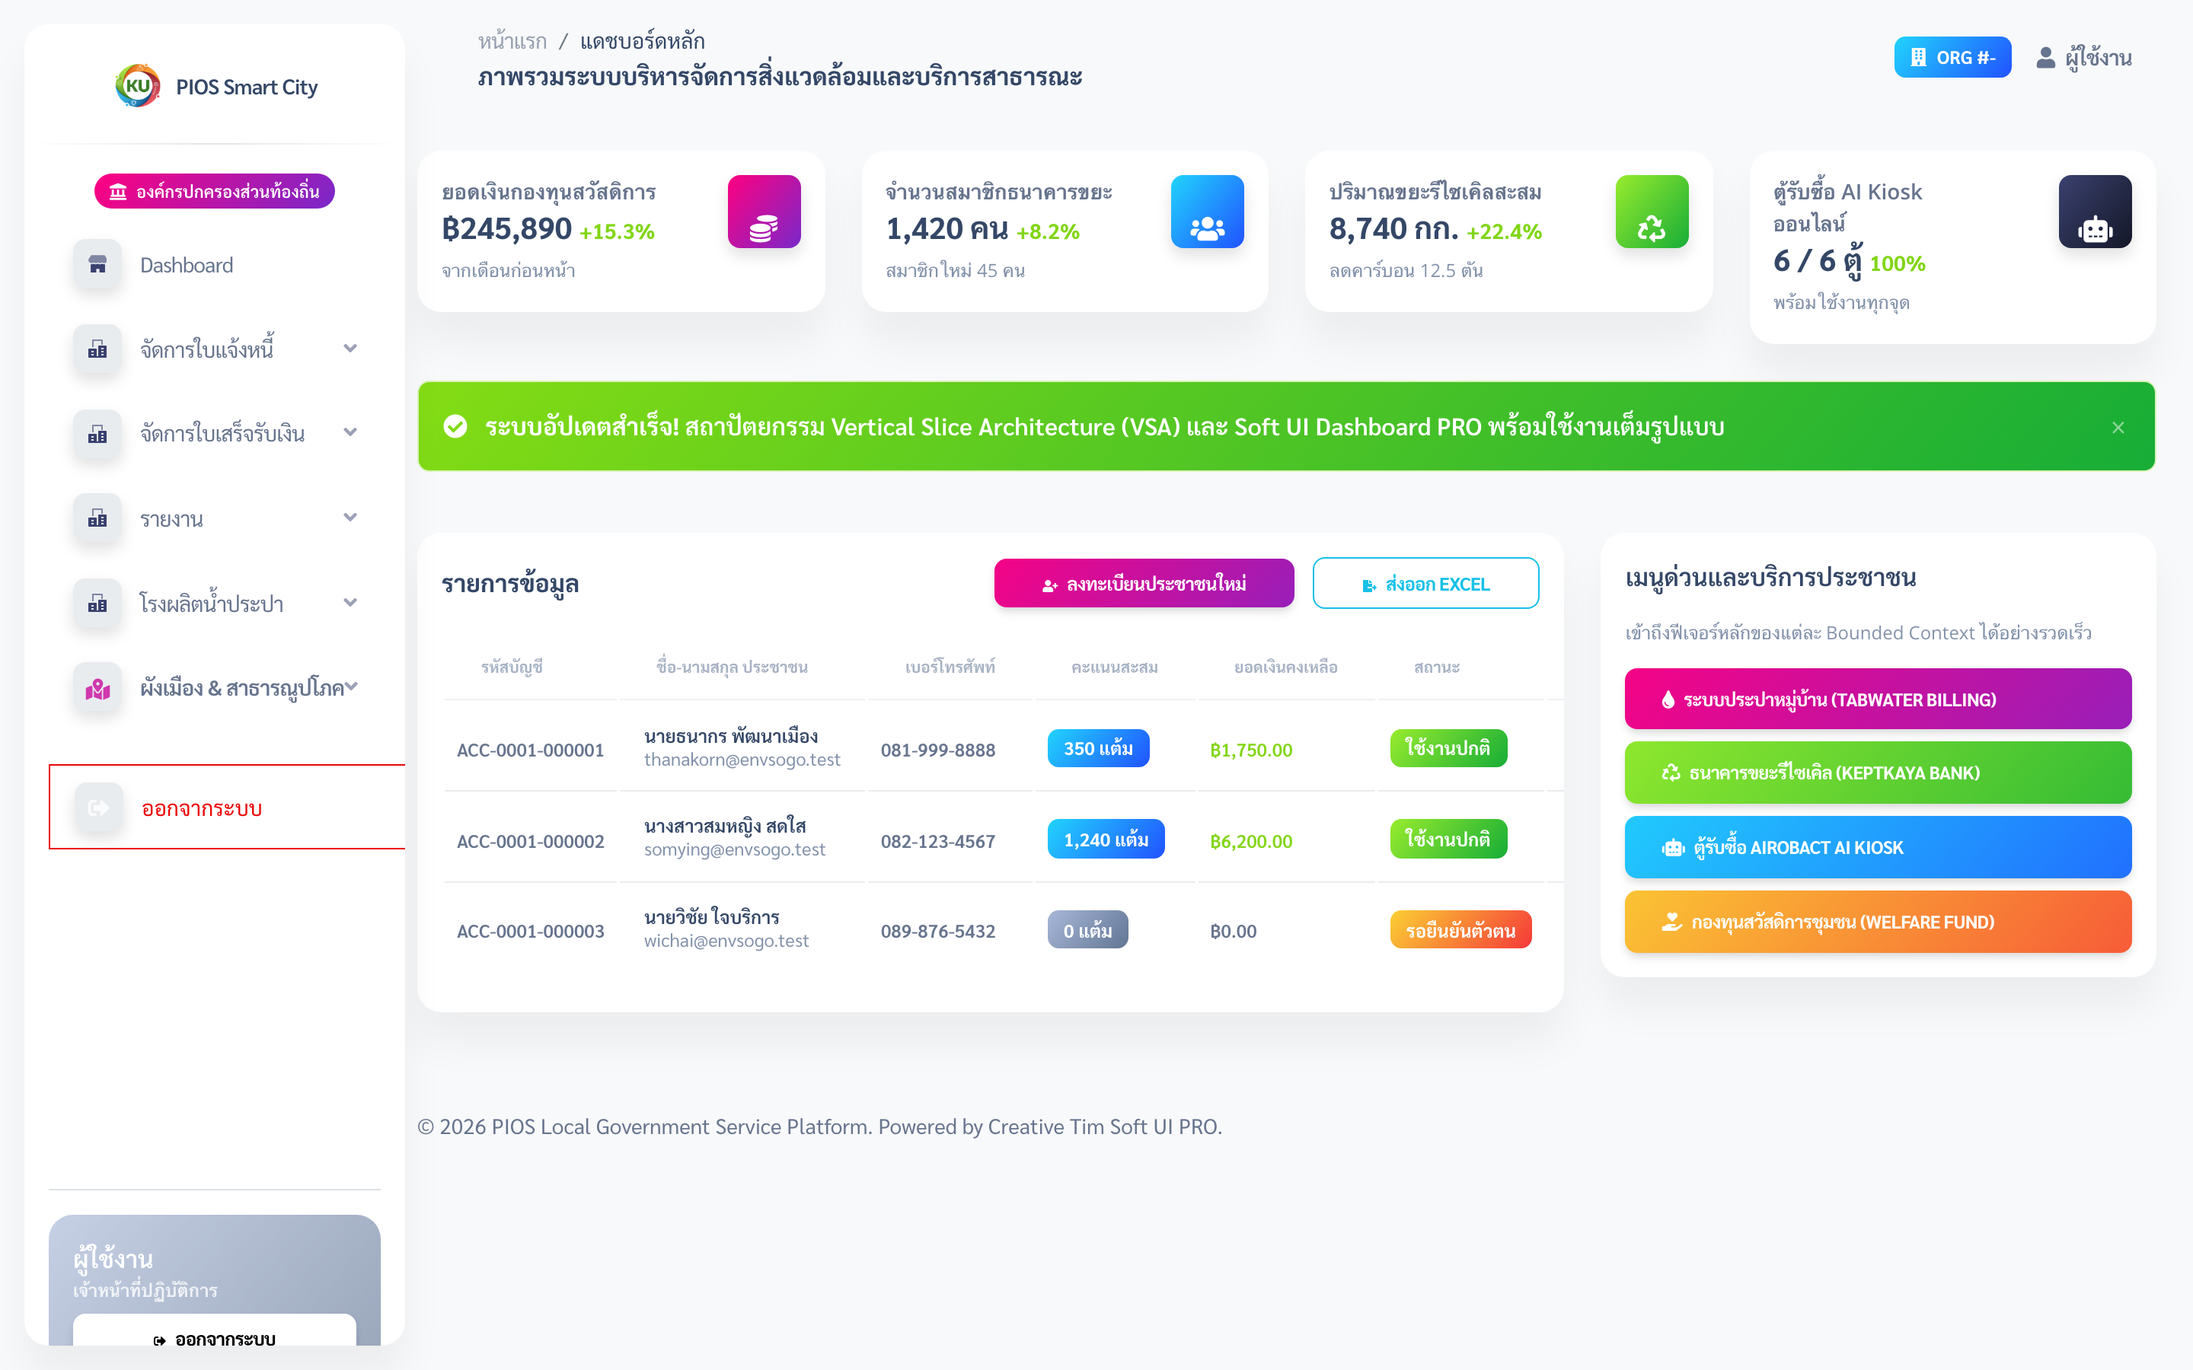
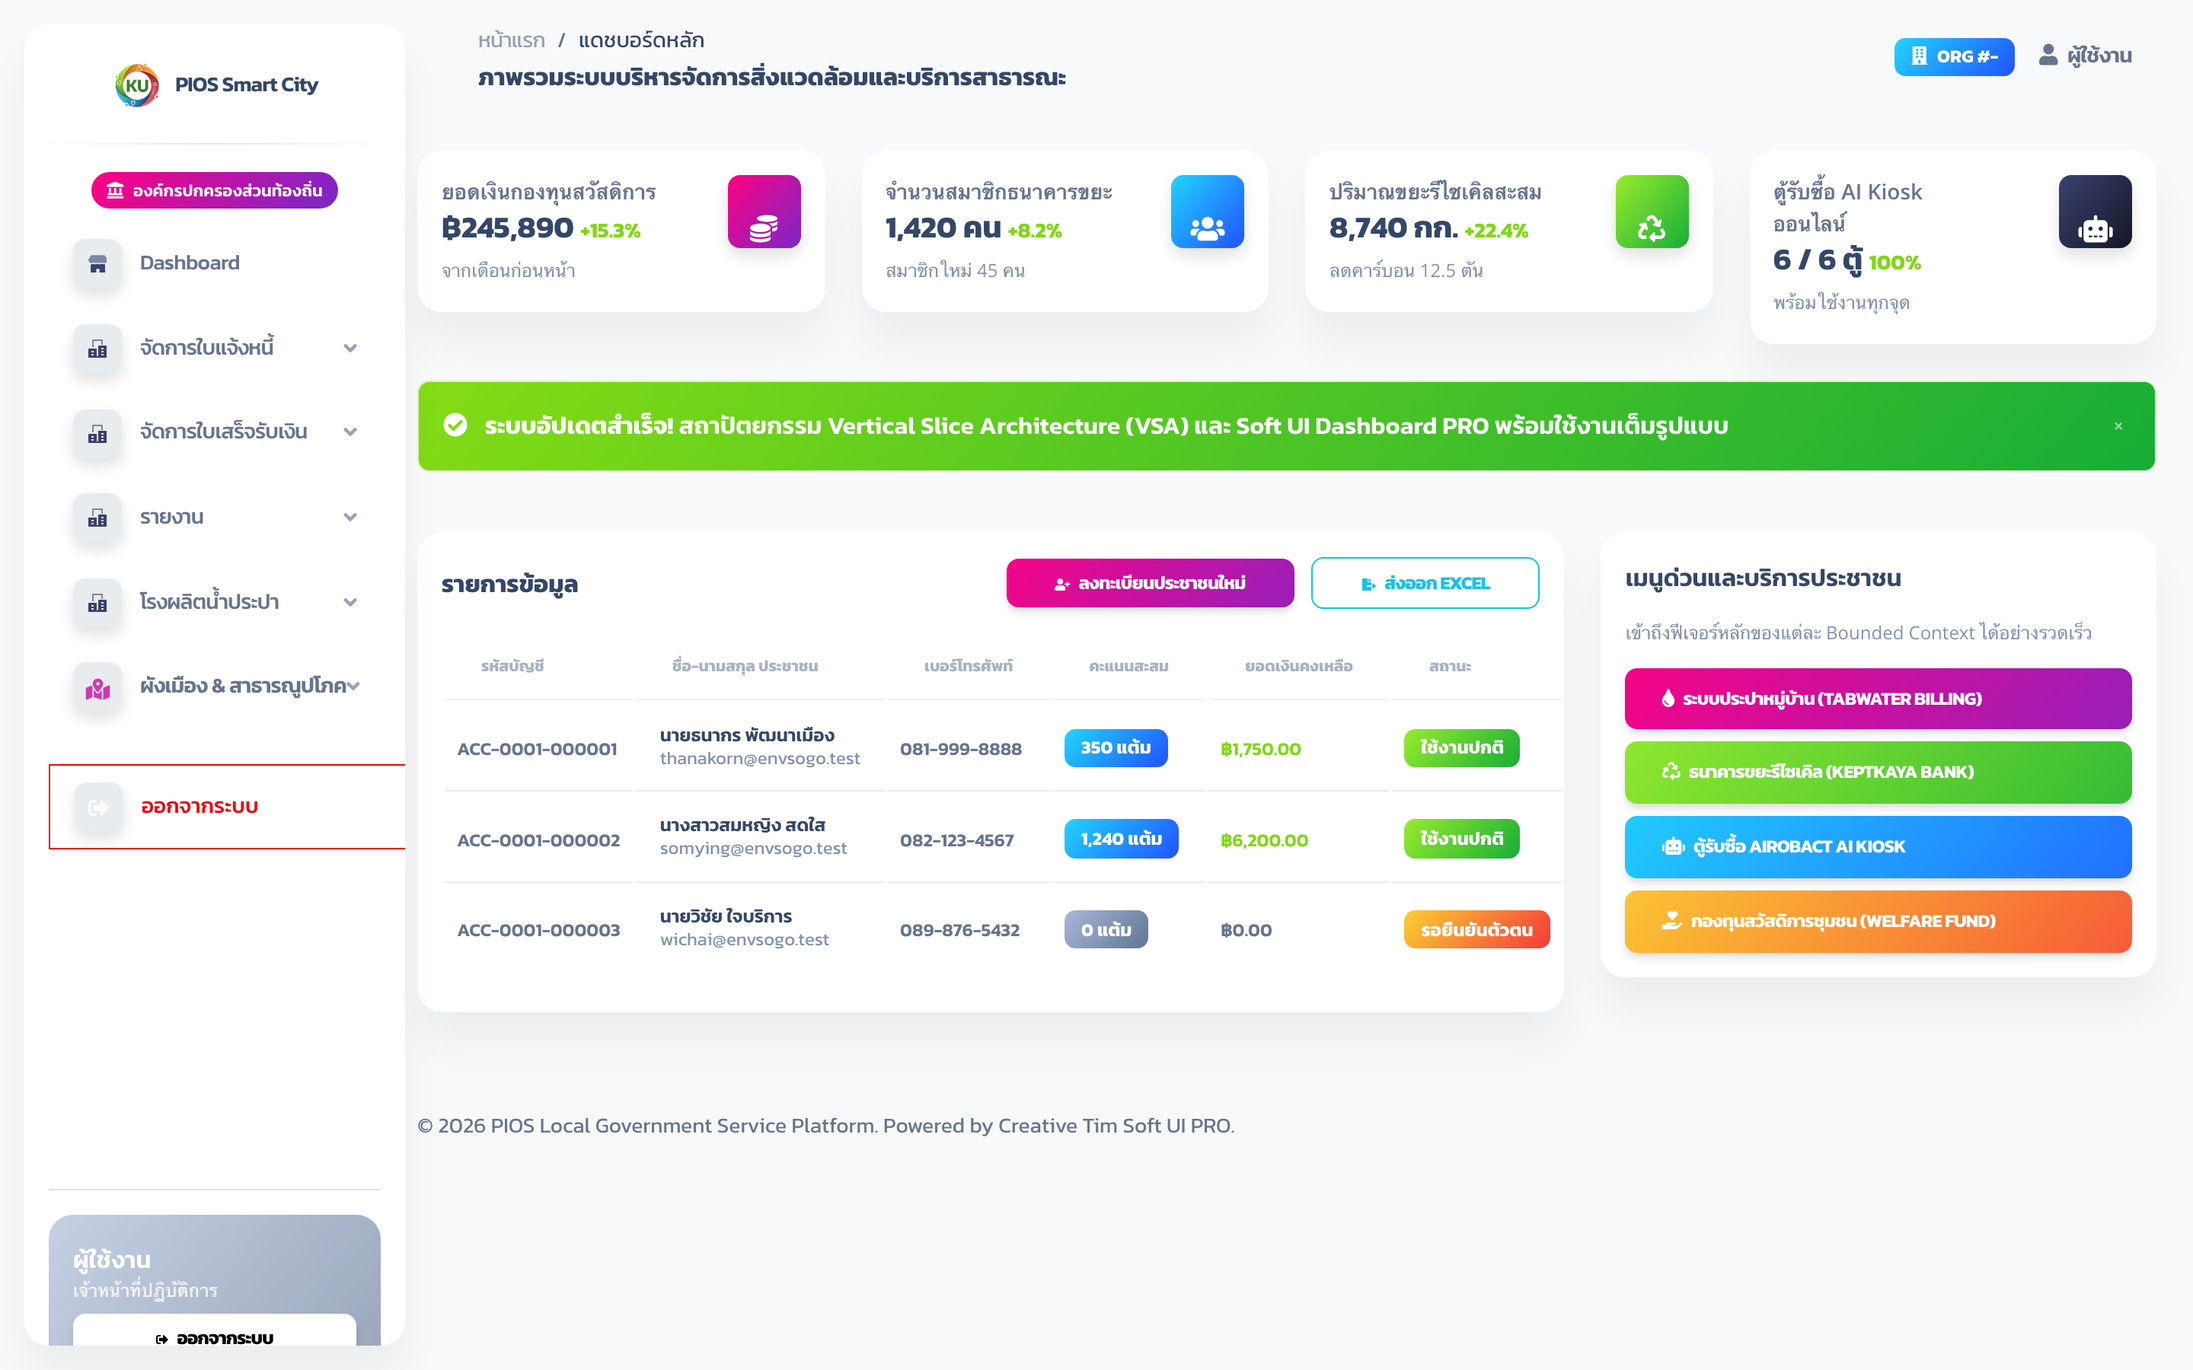
feat(ui): standardize typography across all layouts with Google Font Kanit (ADR-0009)
- Add centralized font partial resources/views/layouts/partials/head-fonts.blade.php with Kanit wght@300;400;500;600;700 and font-display: swap
- Update tailwind.config.js and resources/css/app.css to use Kanit as default sans-serif font
- Standardize all master layouts (soft-ui-pro, admin1, super-admin, welfare, keptkaya, foodwaste, annual_trash, tabwater_staff_mobile, user_mobile, login, guest, app)
- Clean up duplicate imports and conflicting font-family declarations in lineliff/index.blade.php and kiosk/index1.blade.php
- Harden legacy migrations for SQLite test environments with column and table existence guards
- Update MasterLayoutsVerificationTest with Kanit assertion suite and regenerate 4 E2E screenshots

diff --git a/resources/css/app.css b/resources/css/app.css
@@ -1,3 +1,13 @@
 @import 'tailwindcss/base';
 @import 'tailwindcss/components';
 @import 'tailwindcss/utilities';
+
+@layer base {
+    :root {
+        --font-sans: 'Kanit', 'Open Sans', -apple-system, BlinkMacSystemFont, sans-serif;
+    }
+    body {
+        font-family: var(--font-sans);
+        -webkit-font-smoothing: antialiased;
+    }
+}

diff --git a/tailwind.config.js b/tailwind.config.js
@@ -10,7 +10,7 @@ module.exports = {
     theme: {
         extend: {
             fontFamily: {
-                sans: ['Nunito', ...defaultTheme.fontFamily.sans],
+                sans: ['Kanit', 'Open Sans', ...defaultTheme.fontFamily.sans],
             },
         },
     },

diff --git a/tests/Feature/Ui/MasterLayoutsVerificationTest.php b/tests/Feature/Ui/MasterLayoutsVerificationTest.php
@@ -17,9 +17,48 @@ class MasterLayoutsVerificationTest extends TestCase
 
         $this->assertStringContainsString('soft-ui-dashboard.css', $content);
         $this->assertStringContainsString('nucleo-icons.css', $content);
-        $this->assertStringContainsString('Sarabun', $content);
+        $this->assertStringContainsString("layouts.partials.head-fonts", $content);
+        $this->assertStringContainsString("'Kanit'", $content);
         $this->assertStringContainsString('navbarBlur', $content);
         $this->assertStringContainsString('tenant-badge', $content);
+    }
+
+    public function test_head_fonts_partial_loads_kanit_with_font_display_swap(): void
+    {
+        $this->assertTrue(View::exists('layouts.partials.head-fonts'));
+
+        $rendered = View::make('layouts.partials.head-fonts')->render();
+
+        $this->assertStringContainsString('family=Kanit', $rendered);
+        $this->assertStringContainsString('display=swap', $rendered);
+        $this->assertStringContainsString('preconnect', $rendered);
+    }
+
+    public function test_all_standardized_layouts_reference_kanit_or_head_fonts_partial(): void
+    {
+        $layouts = [
+            'views/layouts/soft-ui-pro.blade.php',
+            'views/layouts/admin1.blade.php',
+            'views/layouts/super-admin.blade.php',
+            'views/layouts/welfare.blade.php',
+            'views/layouts/keptkaya.blade.php',
+            'views/layouts/foodwaste.blade.php',
+            'views/layouts/tabwater_staff_mobile.blade.php',
+            'views/layouts/user_mobile.blade.php',
+            'views/layouts/login.blade.php',
+            'views/kiosk/index1.blade.php',
+            'views/lineliff/index.blade.php',
+        ];
+
+        foreach ($layouts as $relPath) {
+            $path = resource_path($relPath);
+            $this->assertFileExists($path, "File {$relPath} must exist");
+            $content = file_get_contents($path);
+            $this->assertTrue(
+                str_contains($content, 'layouts.partials.head-fonts') || str_contains($content, 'Kanit'),
+                "Layout {$relPath} must reference head-fonts partial or Kanit"
+            );
+        }
     }
 
     public function test_flash_partial_renders_alerts_from_session(): void

diff --git a/resources/views/layouts/keptkaya.blade.php b/resources/views/layouts/keptkaya.blade.php
@@ -33,8 +33,8 @@
     <link rel="icon" type="image/png" href="{{ asset('logo/ko_envsogo.png') }}">
     <title>{{ $tabTitle !== '' ? $tabTitle . ' | ' : '' }}EnvSoGo::Kept Kaya</title>
 
-    <link href="https://fonts.googleapis.com/css?family=Open+Sans:300,400,600,700" rel="stylesheet" />
-    <link href="https://fonts.googleapis.com/css2?family=Sarabun:wght@300;400;600;700&display=swap" rel="stylesheet" />
+    <!-- Fonts & Icons (ADR-0009 Kanit) -->
+    @include('layouts.partials.head-fonts')
     <link href="{{ asset('soft-ui/assets/css/nucleo-icons.css') }}" rel="stylesheet" />
     <link href="{{ asset('soft-ui/assets/css/nucleo-svg.css') }}" rel="stylesheet" />
     <!-- Font Awesome 5 (soft-ui-dashboard.css อ้าง 'Font Awesome 5 Free'; ใช้ class fas/far/fab) -->
@@ -44,9 +44,8 @@
     <link href="https://cdn.jsdelivr.net/npm/select2@4.1.0-rc.0/dist/css/select2.min.css" rel="stylesheet" />
 
     <style>
-        /* Open Sans ไม่มีอักษรไทย ให้ใช้ Sarabun เป็นตัวสำรอง */
-        body, .btn, .form-control, .form-select, .dropdown-menu, .table {
-            font-family: "Open Sans", "Sarabun", sans-serif;
+        body, .btn, .form-control, .form-select, .dropdown-menu, .table, h1, h2, h3, h4, h5, h6 {
+            font-family: 'Kanit', 'Open Sans', sans-serif;
         }
         /* sidebar ยาว: ให้เลื่อนในตัวเอง */
         .navbar-vertical.navbar-expand-xs .navbar-collapse { max-height: calc(100vh - 6rem); overflow-y: auto; }

diff --git a/resources/views/layouts/admin1.blade.php b/resources/views/layouts/admin1.blade.php
@@ -36,8 +36,8 @@
     <link rel="icon" type="image/png" href="{{ asset('logo/ko_envsogo.png') }}">
     <title>{{ $tabTitle !== '' ? $tabTitle . ' | ' : '' }}{{ $orgName }}</title>
 
-    <link href="https://fonts.googleapis.com/css?family=Open+Sans:300,400,600,700" rel="stylesheet" />
-    <link href="https://fonts.googleapis.com/css2?family=Sarabun:wght@300;400;600;700&display=swap" rel="stylesheet" />
+    <!-- Fonts & Icons (ADR-0009 Kanit) -->
+    @include('layouts.partials.head-fonts')
     <link href="{{ asset('soft-ui/assets/css/nucleo-icons.css') }}" rel="stylesheet" />
     <link href="{{ asset('soft-ui/assets/css/nucleo-svg.css') }}" rel="stylesheet" />
     <!-- Font Awesome 5 (soft-ui-dashboard.css อ้าง 'Font Awesome 5 Free'; ใช้ class fas/far/fab ไม่ใช่ fa-solid) -->
@@ -46,9 +46,8 @@
     <link rel="stylesheet" href="https://cdn.datatables.net/1.13.6/css/dataTables.bootstrap5.min.css" />
 
     <style>
-        /* Open Sans ไม่มีอักษรไทย ให้ใช้ Sarabun เป็นตัวสำรอง */
-        body, .btn, .form-control, .form-select, .dropdown-menu, .table {
-            font-family: "Open Sans", "Sarabun", sans-serif;
+        body, .btn, .form-control, .form-select, .dropdown-menu, .table, h1, h2, h3, h4, h5, h6 {
+            font-family: 'Kanit', 'Open Sans', sans-serif;
         }
         .hidden { display: none !important; }
         .padding4px { padding: 4px !important; }

diff --git a/resources/views/layouts/super-admin.blade.php b/resources/views/layouts/super-admin.blade.php
@@ -29,9 +29,8 @@
   <link rel="icon" type="image/png" href="{{ asset('logo/ko_envsogo.png')}}">
   <title>{{ $tabTitle !== '' ? $tabTitle . ' | ' : '' }}Envsogo</title>
 
-  <!-- Fonts and icons -->
-  <link href="https://fonts.googleapis.com/css?family=Open+Sans:300,400,600,700" rel="stylesheet" />
-  <link href="https://fonts.googleapis.com/css2?family=Sarabun:wght@300;400;600;700&display=swap" rel="stylesheet" />
+  <!-- Fonts and icons (ADR-0009 Kanit) -->
+  @include('layouts.partials.head-fonts')
   <!-- Nucleo Icons -->
   <link href="{{ asset('soft-ui/assets/css/nucleo-icons.css')}}" rel="stylesheet" />
   <link href="{{ asset('soft-ui/assets/css/nucleo-svg.css')}}" rel="stylesheet" />
@@ -41,9 +40,8 @@
   <link id="pagestyle" href="{{ asset('soft-ui/assets/css/soft-ui-dashboard.css?v=1.0.7')}}" rel="stylesheet" />
 
   <style>
-    /* Open Sans ไม่มีอักษรไทย ให้ใช้ Sarabun เป็นตัวสำรอง */
-    body, .btn, .form-control, .form-select, .dropdown-menu, .table {
-      font-family: "Open Sans", "Sarabun", sans-serif;
+    body, .btn, .form-control, .form-select, .dropdown-menu, .table, h1, h2, h3, h4, h5, h6 {
+      font-family: 'Kanit', 'Open Sans', sans-serif;
     }
     .sidenav .nav-link-text { white-space: normal; }
     .hidden{

diff --git a/resources/views/layouts/welfare.blade.php b/resources/views/layouts/welfare.blade.php
@@ -29,9 +29,8 @@
   <link rel="icon" type="image/png" href="{{ asset('logo/ko_envsogo.png')}}">
   <title>{{ $tabTitle !== '' ? $tabTitle . ' | ' : '' }}Envsogo</title>
 
-  <!-- Fonts and icons -->
-  <link href="https://fonts.googleapis.com/css?family=Open+Sans:300,400,600,700" rel="stylesheet" />
-  <link href="https://fonts.googleapis.com/css2?family=Sarabun:wght@300;400;600;700&display=swap" rel="stylesheet" />
+  <!-- Fonts and icons (ADR-0009 Kanit) -->
+  @include('layouts.partials.head-fonts')
   <!-- Nucleo Icons -->
   <link href="{{ asset('soft-ui/assets/css/nucleo-icons.css')}}" rel="stylesheet" />
   <link href="{{ asset('soft-ui/assets/css/nucleo-svg.css')}}" rel="stylesheet" />
@@ -41,9 +40,8 @@
   <link id="pagestyle" href="{{ asset('soft-ui/assets/css/soft-ui-dashboard.css?v=1.0.7')}}" rel="stylesheet" />
 
   <style>
-    /* Open Sans ไม่มีอักษรไทย ให้ใช้ Sarabun เป็นตัวสำรอง */
-    body, .btn, .form-control, .form-select, .dropdown-menu, .table {
-      font-family: "Open Sans", "Sarabun", sans-serif;
+    body, .btn, .form-control, .form-select, .dropdown-menu, .table, h1, h2, h3, h4, h5, h6 {
+      font-family: 'Kanit', 'Open Sans', sans-serif;
     }
     .sidenav .nav-link-text { white-space: normal; }
     .hidden{

diff --git a/database/migrations/2026_01_12_094524_create_inv_item_details_table.php b/database/migrations/2026_01_12_094524_create_inv_item_details_table.php
@@ -19,6 +19,7 @@ return new class extends Migration
         // เชื่อมกับตารางแม่ (Catalog)
         $table->unsignedBigInteger('inv_item_id_fk');
         $table->foreign('inv_item_id_fk')->references('id')->on('inv_items')->onDelete('cascade');
+        $table->unsignedBigInteger('supplier_id_fk')->nullable();
         $table->foreign('supplier_id_fk')->references('id')->on('suppliers')->onDelete('cascade');
 
         // ข้อมูล Lot/Batch
@@ -35,7 +36,9 @@ return new class extends Migration
         
         $table->date('expire_date')->nullable();      // วันหมดอายุของขวดนี้
         $table->date('received_date')->nullable();    // วันที่รับของชิ้นนี้เข้ามา
+        $table->unsignedBigInteger('received_by')->nullable();
         $table->foreign('received_by')->references('id')->on('users')->onDelete('cascade');
+        $table->unsignedBigInteger('location_id_fk')->nullable();
         $table->foreign('location_id_fk')->references('id')->on('inv_locations')->onDelete('cascade');
 
         // สถานะของขวดนี้

diff --git a/resources/views/layouts/soft-ui-pro.blade.php b/resources/views/layouts/soft-ui-pro.blade.php
@@ -28,9 +28,8 @@
     <link rel="icon" type="image/png" href="{{ asset('logo/ko_envsogo.png') }}">
     <title>{{ $pageTitle }} | {{ $orgName }}</title>
 
-    <!-- Fonts & Icons -->
-    <link href="https://fonts.googleapis.com/css?family=Open+Sans:300,400,600,700" rel="stylesheet" />
-    <link href="https://fonts.googleapis.com/css2?family=Sarabun:wght@300;400;600;700&display=swap" rel="stylesheet" />
+    <!-- Fonts & Icons (ADR-0009 Kanit) -->
+    @include('layouts.partials.head-fonts')
     <link href="{{ asset('soft-ui/assets/css/nucleo-icons.css') }}" rel="stylesheet" />
     <link href="{{ asset('soft-ui/assets/css/nucleo-svg.css') }}" rel="stylesheet" />
     <link rel="stylesheet" href="{{ asset('adminlte/plugins/fontawesome-free/css/all.min.css') }}" />
@@ -39,7 +38,7 @@
 
     <style>
         body, .btn, .form-control, .form-select, .dropdown-menu, .table, h1, h2, h3, h4, h5, h6 {
-            font-family: 'Sarabun', 'Open Sans', sans-serif;
+            font-family: 'Kanit', 'Open Sans', sans-serif;
         }
         .navbar-vertical.navbar-expand-xs .navbar-collapse {
             height: calc(100vh - 280px);

diff --git a/resources/views/lineliff/index.blade.php b/resources/views/lineliff/index.blade.php
@@ -11,7 +11,7 @@
     <script src="https://cdn.jsdelivr.net/npm/sweetalert2@11"></script>
 
     <style>
-        @import url("https://fonts.googleapis.com/css2?family=Kanit:wght@300;400;500&display=swap");
+        @import url("https://fonts.googleapis.com/css2?family=Kanit:ital,wght@0,300;0,400;0,500;0,600;0,700;1,300;1,400&display=swap");
 
         body {
             font-family: 'Kanit', sans-serif;
@@ -65,8 +65,6 @@
         }
     </style>
     <style>
-        @import url("https://fonts.googleapis.com/css?family=Fredoka+One");
-
         .store-container {
             line-height: 0;
             margin: 50px auto;
@@ -432,11 +430,8 @@
             background-color: #e9ecef;
         }
 
-        /* Import ฟอนต์ไทยสวยๆ */
-        @import url('https://fonts.googleapis.com/css2?family=Prompt:wght@300;400;500;600&display=swap');
-
         body {
-            font-family: 'Prompt', sans-serif;
+            font-family: 'Kanit', sans-serif;
             background-color: #f0f2f5;
             /* สีพื้นหลังให้อ่อนสบายตา */
         }

diff --git a/resources/views/layouts/tabwater_staff_mobile.blade.php b/resources/views/layouts/tabwater_staff_mobile.blade.php
@@ -13,9 +13,8 @@
 
 
 
-    {{-- <link href="https://fonts.googleapis.com/css?family=Open+Sans:300,400,600,700" rel="stylesheet" /> --}}
-    <link href="https://fonts.googleapis.com/css2?family=Sarabun:ital,wght@0,500;0,700;1,400;1,500&display=swap"
-        rel="stylesheet">
+    <!-- Fonts & Icons (ADR-0009 Kanit) -->
+    @include('layouts.partials.head-fonts')
     <link href="{{ asset('soft-ui/assets/css/nucleo-icons.css') }}" rel="stylesheet" />
     <link href="{{ asset('soft-ui/assets/css/nucleo-svg.css') }}" rel="stylesheet" />
 
@@ -26,8 +25,8 @@
         integrity="sha384-DyZ88mC6Up2uqS4h/KRgHuoeGwBcD4Ng9SiP4dIRy0EXTlnuz47vAwmeGwVChigm" crossorigin="anonymous" />
     <script src="{{ asset('adminlte/plugins/jquery/jquery.js') }}"></script>
     <style>
-        body{
-             font-family: "Sarabun", sans-serif;
+        body, .btn, .form-control, .form-select, .dropdown-menu, .table, h1, h2, h3, h4, h5, h6 {
+            font-family: 'Kanit', 'Open Sans', sans-serif;
         }
         .navbar-vertical.navbar-expand-xs .navbar-collapse {
             display: block;

diff --git a/resources/views/layouts/user_mobile.blade.php b/resources/views/layouts/user_mobile.blade.php
@@ -13,9 +13,8 @@
 
 
 
-    {{-- <link href="https://fonts.googleapis.com/css?family=Open+Sans:300,400,600,700" rel="stylesheet" /> --}}
-    <link href="https://fonts.googleapis.com/css2?family=Sarabun:ital,wght@0,500;0,700;1,400;1,500&display=swap"
-        rel="stylesheet">
+    <!-- Fonts & Icons (ADR-0009 Kanit) -->
+    @include('layouts.partials.head-fonts')
     <link href="{{ asset('soft-ui/assets/css/nucleo-icons.css') }}" rel="stylesheet" />
     <link href="{{ asset('soft-ui/assets/css/nucleo-svg.css') }}" rel="stylesheet" />
 
@@ -26,8 +25,8 @@
         integrity="sha384-DyZ88mC6Up2uqS4h/KRgHuoeGwBcD4Ng9SiP4dIRy0EXTlnuz47vAwmeGwVChigm" crossorigin="anonymous" />
     <script src="{{ asset('adminlte/plugins/jquery/jquery.js') }}"></script>
     <style>
-        body{
-             font-family: "Sarabun", sans-serif;
+        body, .btn, .form-control, .form-select, .dropdown-menu, .table, h1, h2, h3, h4, h5, h6 {
+            font-family: 'Kanit', 'Open Sans', sans-serif;
         }
         .navbar-vertical.navbar-expand-xs .navbar-collapse {
             display: block;
